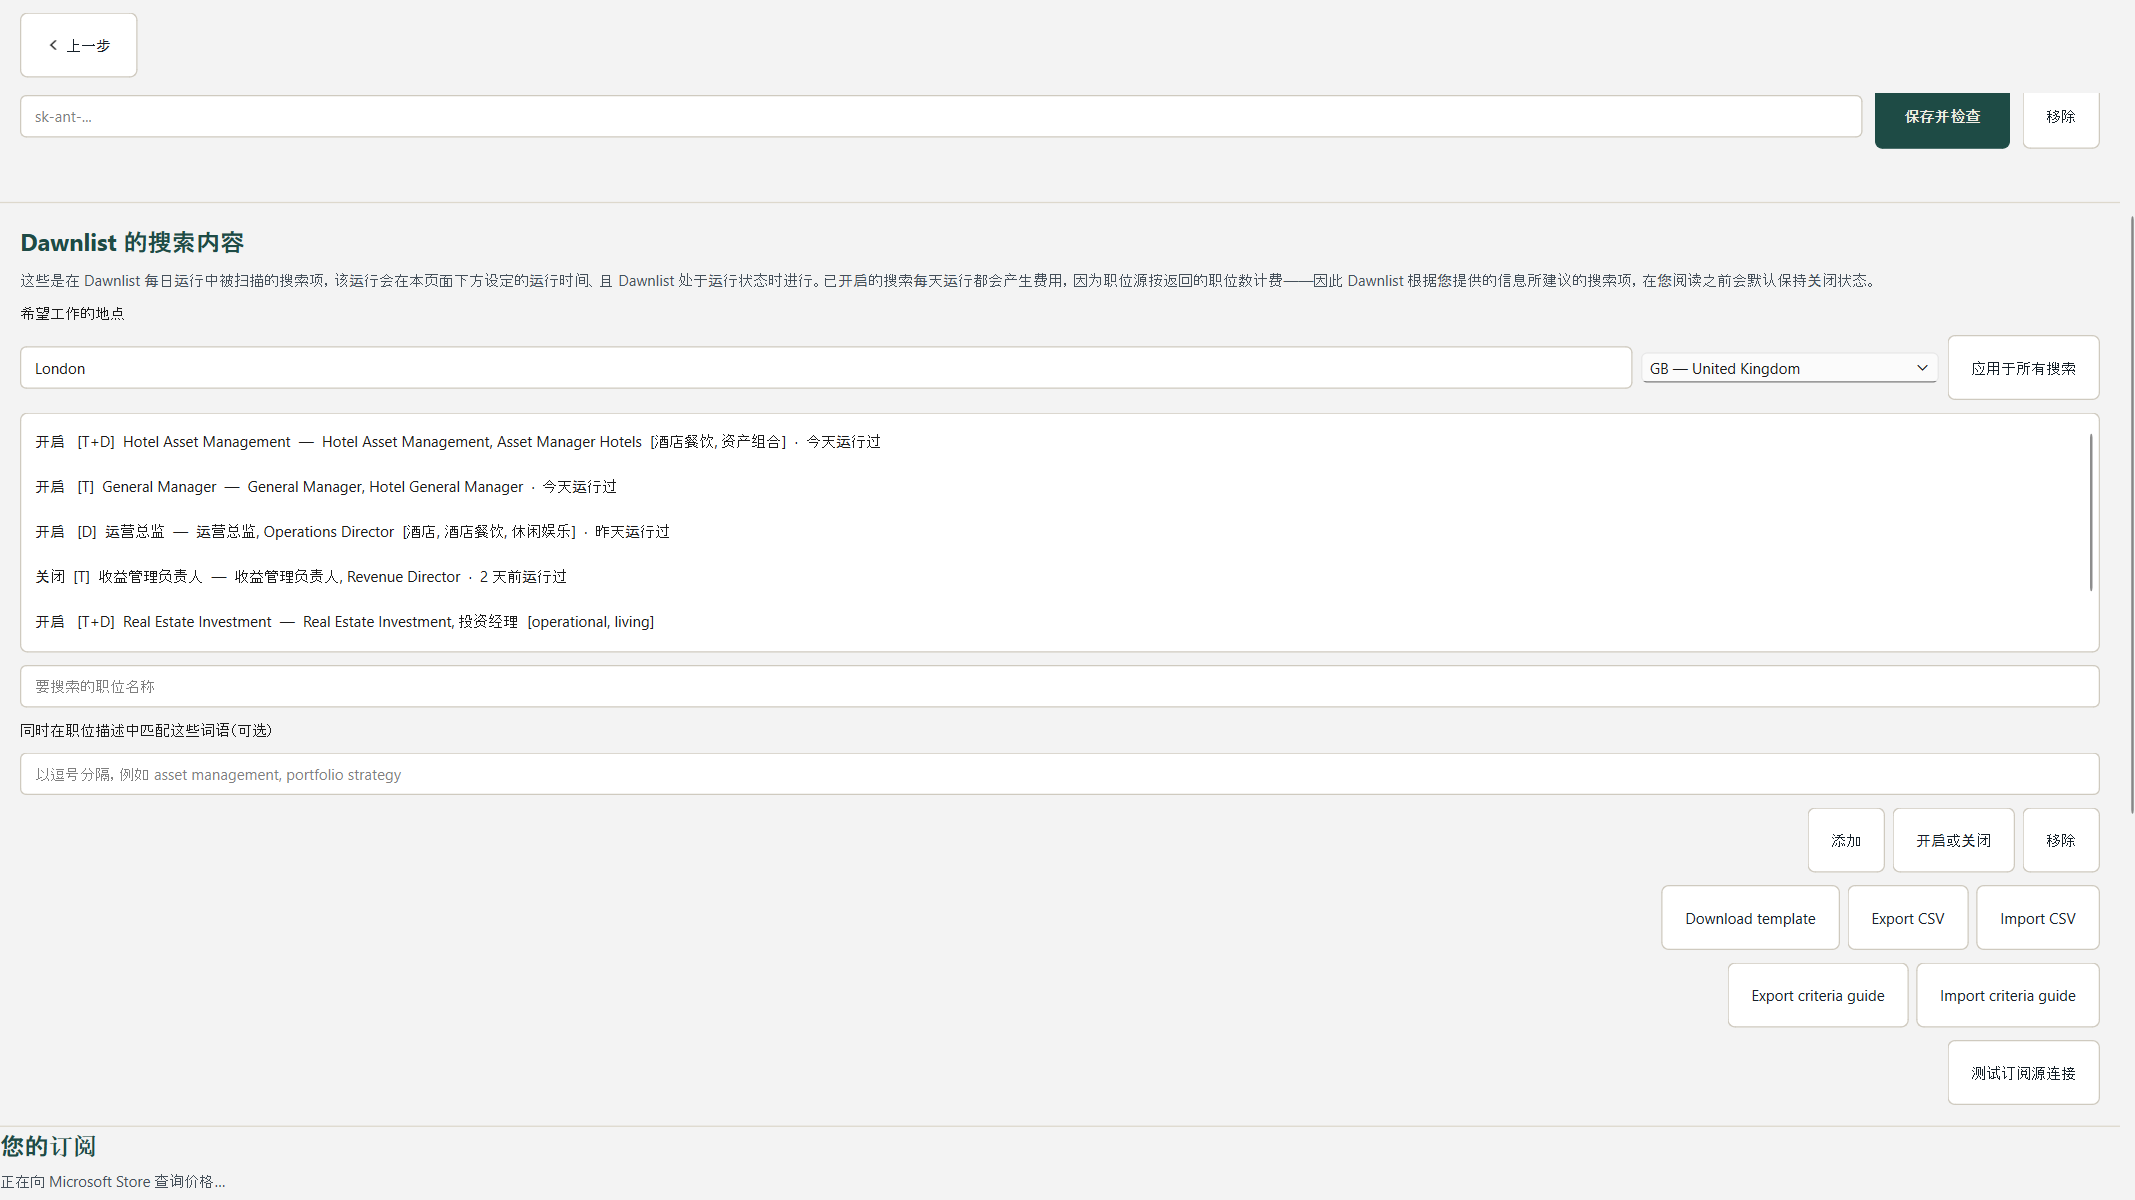
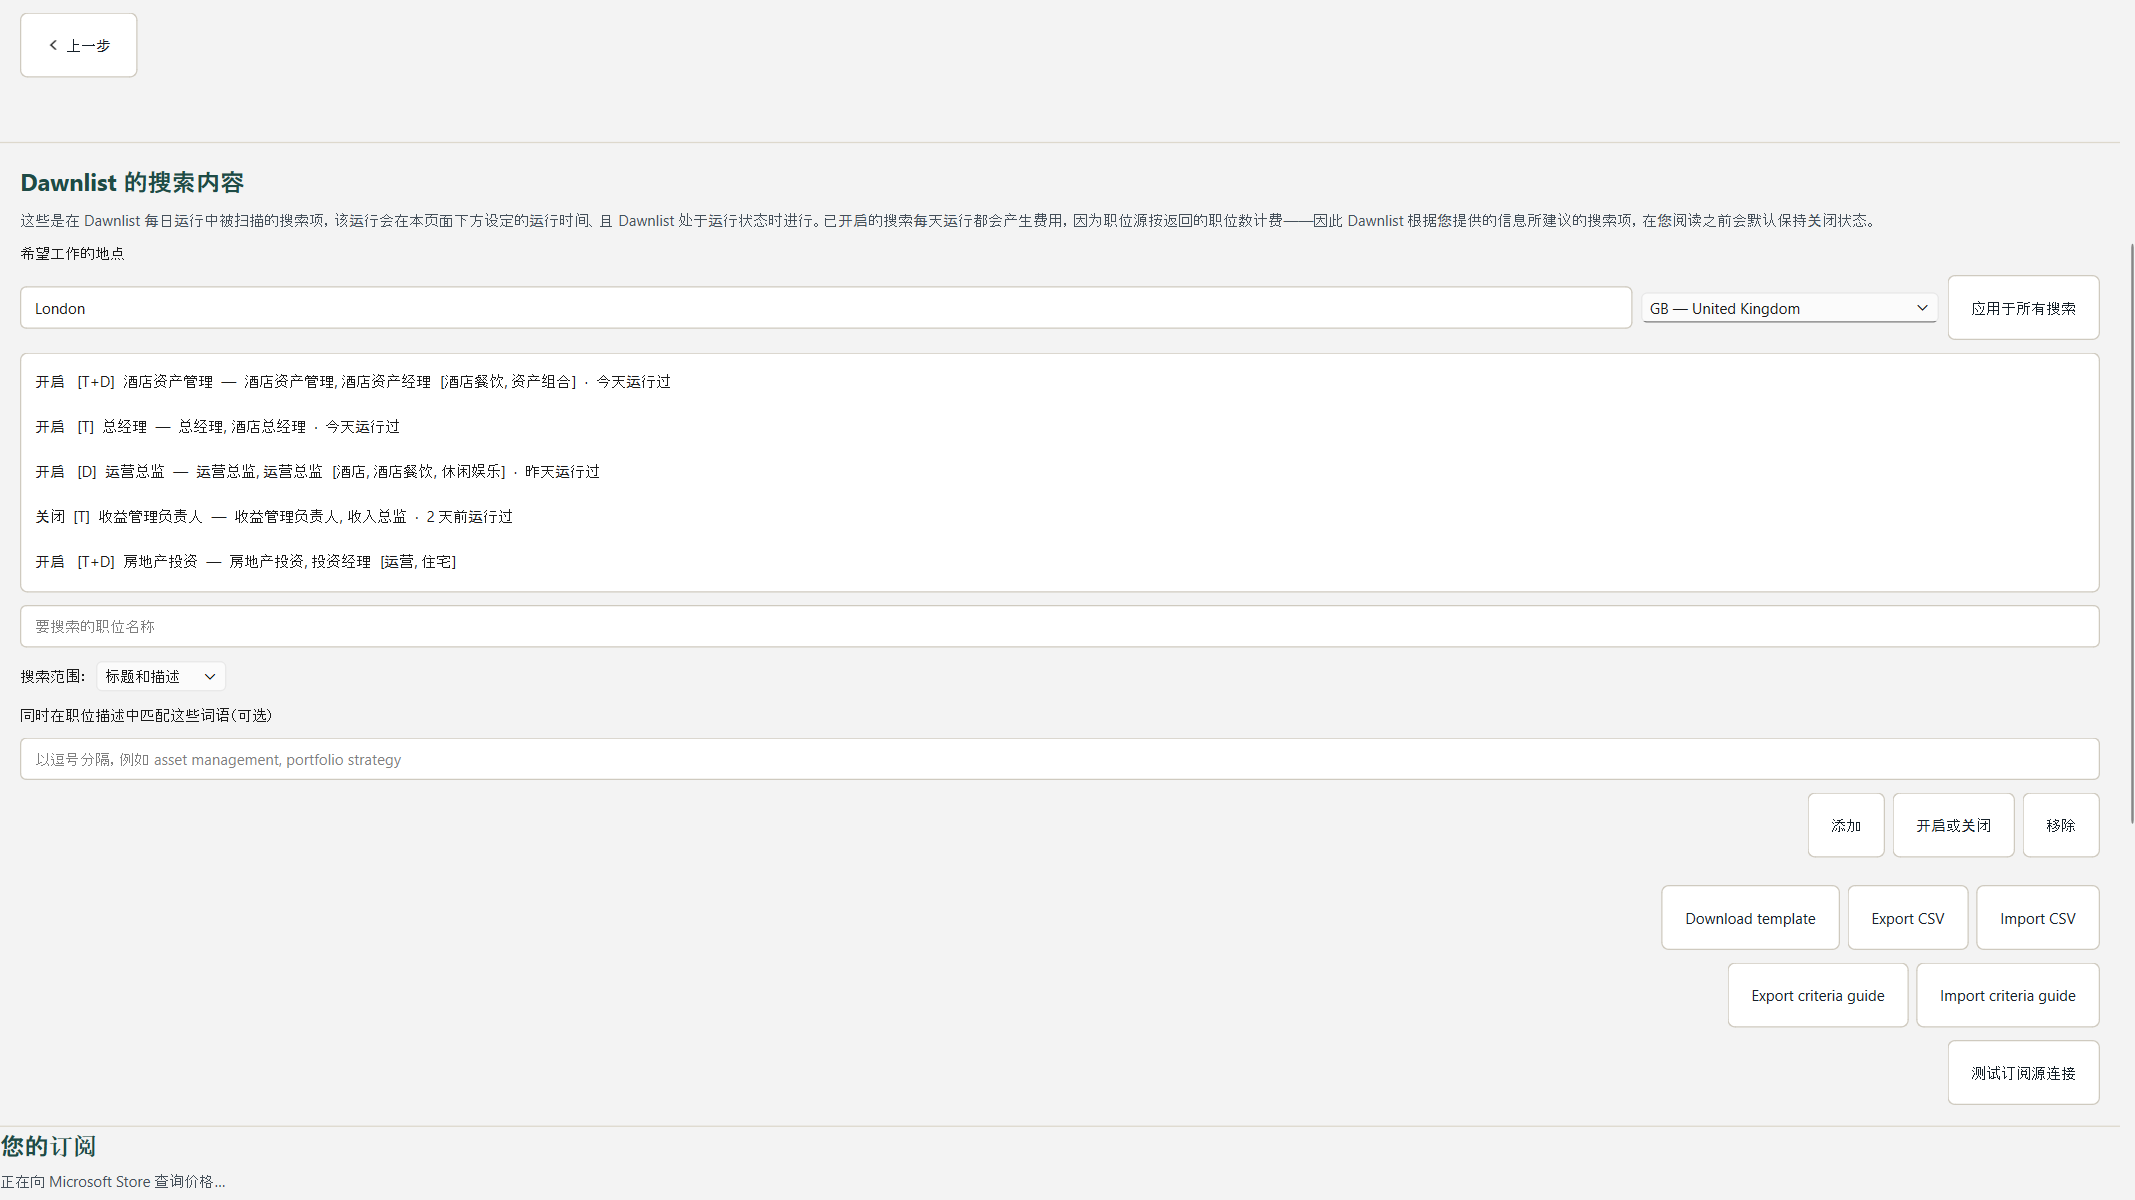
Re-render store screenshots with search_type UI visible
render_searches.py now sets type_combo to index 1 ("Title and
description") so the description keywords field is visible in the
07-settings screenshot — the previous render hid it behind "Title only".

Add fixture translations for the 9 search-panel strings (job titles and
description keywords) across all 6 locales so localized screenshots
are fully translated rather than half-English.

diff --git a/tools/render_searches.py b/tools/render_searches.py
@@ -109,6 +109,10 @@ def build_searches(*, size=None):
         connection_tester=lambda: None,
     )
 
+    # Show "Title and description" so the description keywords field is
+    # visible — demonstrates more of the UI's capability in one shot.
+    panel.type_combo.setCurrentIndex(1)
+
     win = SettingsWindow(variant="store_iap", searches=panel)
     render_hidden(win, size or STORE_SIZE)
 
